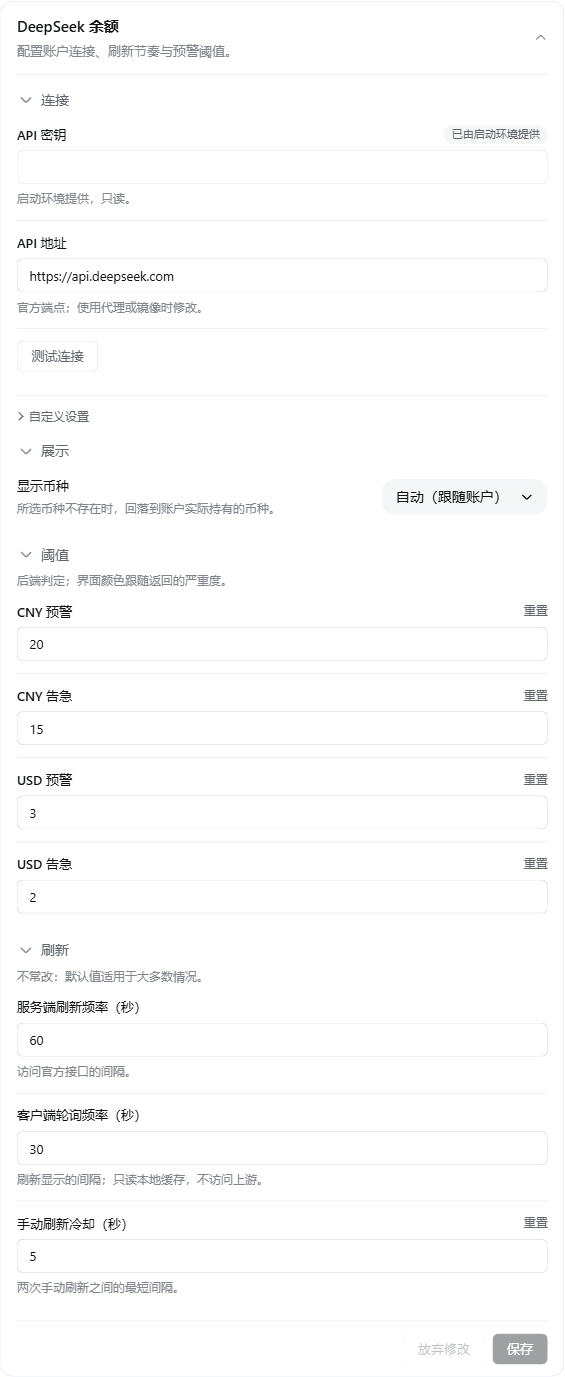
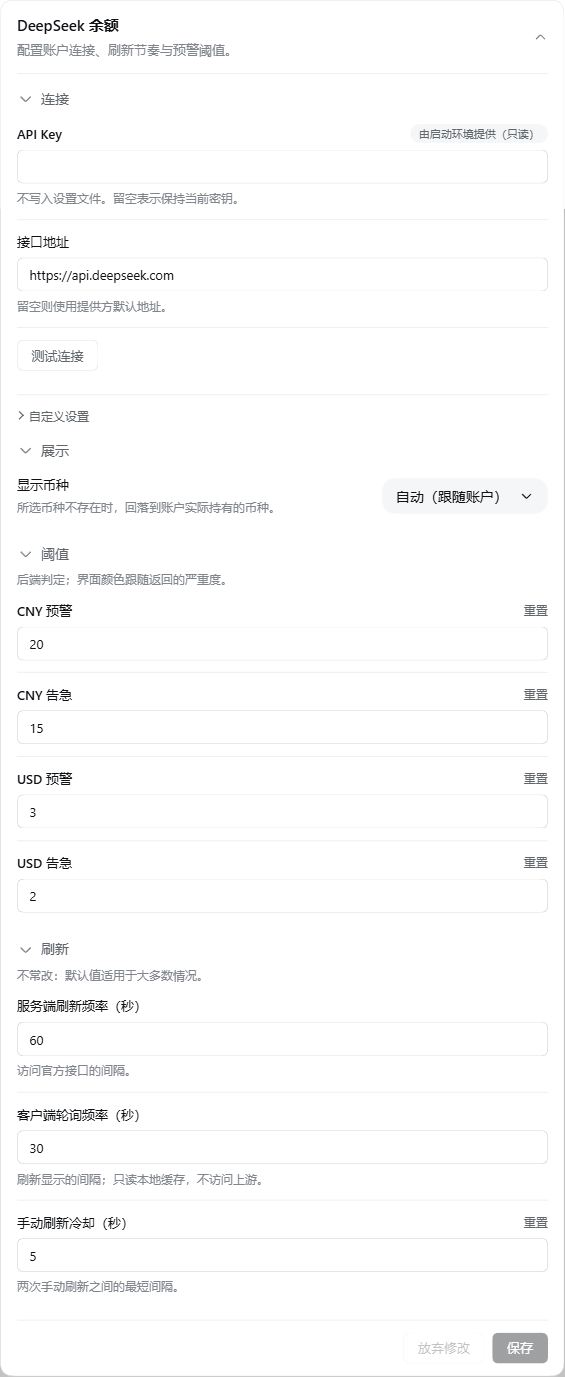
凭据行文案逐字对齐官方「网页搜索」卡片，只读框改常态空框
改了什么
- locales.ts：标签、说明与徽标改成官方原文（源：packages/client/ui-settings-plugins/src/client/locales.ts 的
  webSearchApiKey / webSearchBaseUrl / webSearchApiKeyHint / webSearchBaseUrlHint / webSearchApiKeySet / webSearchApiKeyUnset，
  以及 ui-settings-models 的 keyEnvLocked）——「API Key」（原「API 密钥」）、「接口地址」（原「API 地址」）、
  「留空则使用提供方默认地址。」（原「官方端点；使用代理或镜像时修改。」）、「已配置密钥。」、「未配置密钥。」、
  「由启动环境提供（只读）」（原「已由启动环境提供」）、「不写入设置文件。留空表示保持当前密钥。」；英文同源。
- 说明行收敛成一句与状态无关的常量（官方 webSearchApiKeyHint 就是常量），状态只由徽章交代：
  删掉 CREDENTIAL_HINT 四档映射与随之作废的三个词条。
- fields.tsx 的 ReadOnlyControl：只给 readOnly、不再给 disabled —— 官方那张卡里配好的密钥就是一个常态空框，
  置灰只属于「整份设置不可写」。框仍**不允许输入**（凭据继承官方模型页那一份），但不再降透明度。
- 同步 docs/ARCHITECTURE.md、src/client/settings/{AGENTS,README}.md、assets/AGENTS.md 与两份门面里的徽标措辞。

为什么
- 维护者指定照 DSH 的 Web search 模块抄，文案可逐字相同；并明确「API Key 不允许输入，因为其继承官方的」。
- 官方那套词在 settings.models / settings.plugins 命名空间下，别的插件拿不到，只能抄进本地词典。

怎么验证
- 真机读 DOM：凭据输入框 disabled=false、readOnly=true、opacity=1；徽标与说明行文字与官方源逐字一致。
- 两张卡片图重拍（中 565×1377 / 英 565×1395）：四组展开、底部「放弃 / 保存」在内、凭据框空的且不置灰。
- npm run typecheck 三段 0；npm test 28 files / 309 passed；check-links 80 files / 363 links 0 错；check-line-endings 0 不一致。

怎么回滚
- git revert 本提交：文案回到旧措辞，两张图回到上一版（git 历史里）。

diff --git a/src/client/locales.ts b/src/client/locales.ts
@@ -39,9 +39,9 @@ export const zh = {
   'settings.group.refresh': '刷新',
   'settings.group.display': '展示',
   'settings.group.thresholds': '阈值',
-  'settings.field.apiKey': 'API 密钥',
+  'settings.field.apiKey': 'API Key',
   'settings.field.apiKeyRef': 'API 密钥引用名',
-  'settings.field.baseUrl': 'API 地址',
+  'settings.field.baseUrl': '接口地址',
   'settings.field.serverRefreshSeconds': '服务端刷新频率（秒）',
   'settings.field.clientPollSeconds': '客户端轮询频率（秒）',
   'settings.field.manualRefreshCooldownSeconds': '手动刷新冷却（秒）',
@@ -52,7 +52,7 @@ export const zh = {
   'settings.field.usdCritical': 'USD 告急',
   'settings.hint.apiKey': '留空则改用引用名从凭据存储读取。',
   'settings.hint.apiKeyRef': '凭据存储里的条目名；非空时优先于 API Key。',
-  'settings.hint.baseUrl': '官方端点；使用代理或镜像时修改。',
+  'settings.hint.baseUrl': '留空则使用提供方默认地址。',
   'settings.hint.displayCurrency': '所选币种不存在时，回落到账户实际持有的币种。',
   'settings.hint.number': '请填数字；留空表示使用默认值。',
   'settings.hint.threshold': '后端判定；界面颜色跟随返回的严重度。',
@@ -61,14 +61,15 @@ export const zh = {
   'settings.hint.clientPollSeconds': '刷新显示的间隔；只读本地缓存，不访问上游。',
   'settings.hint.manualRefreshCooldownSeconds': '两次手动刷新之间的最短间隔。',
   'settings.currency.auto': '自动（跟随账户）',
-  // 凭据只读时的**状态徽章**文案。此前这里放的是输入框占位符，逐字抄官方 settings.models
-  // 的 keyEnvLocked；现在输入框留空、状态走标签行右侧的徽章，措辞随之改短。
-  'settings.credential.envLocked': '已由启动环境提供',
-  // 只读凭据行下方的说明，按状态四选一。其中「已配置」那条逐字用官方 webSearchApiKeyHint。
-  'settings.hint.credential.env': '启动环境提供，只读。',
-  'settings.hint.credential.configured': '不写入设置文件。留空表示保持当前密钥。',
-  'settings.hint.credential.notConfigured': '尚未配置。',
-  'settings.hint.credential.overridden': '使用自定义设置里的值，忽略继承。',
+  // 凭据行的**状态徽章**：三条逐字用官方措辞 —— 「已配置 / 未配置密钥」取自
+  // ui-settings-plugins 的 webSearchApiKeySet / webSearchApiKeyUnset（去掉搜索相关的后半句），
+  // 「由启动环境提供（只读）」取自 ui-settings-models 的 keyEnvLocked。
+  'settings.credential.envLocked': '由启动环境提供（只读）',
+  'settings.credential.configured': '已配置密钥。',
+  'settings.credential.notConfigured': '未配置密钥。',
+  // 凭据行下方的说明。官方 webSearchApiKeyHint 是一句与状态无关的常量说明，这里照做：
+  // 状态由徽章交代，说明只讲字段契约。
+  'settings.hint.credential': '不写入设置文件。留空表示保持当前密钥。',
   'settings.group.customized': '自定义设置',
   'settings.test': '测试连接',
   'settings.testing': '测试中…',
@@ -139,7 +140,7 @@ export const en: Record<LocaleKey, string> = {
   'settings.group.thresholds': 'Thresholds',
   'settings.field.apiKey': 'API key',
   'settings.field.apiKeyRef': 'API key reference',
-  'settings.field.baseUrl': 'Base URL',
+  'settings.field.baseUrl': 'Endpoint',
   'settings.field.serverRefreshSeconds': 'Server refresh (seconds)',
   'settings.field.clientPollSeconds': 'Client poll (seconds)',
   'settings.field.manualRefreshCooldownSeconds': 'Manual refresh cooldown (seconds)',
@@ -150,7 +151,7 @@ export const en: Record<LocaleKey, string> = {
   'settings.field.usdCritical': 'USD critical',
   'settings.hint.apiKey': 'Leave empty to resolve from the credential reference instead.',
   'settings.hint.apiKeyRef': 'Credential store entry name; takes precedence over the API key.',
-  'settings.hint.baseUrl': 'Official endpoint; change it for a proxy or mirror.',
+  'settings.hint.baseUrl': 'Leave blank to use the provider default.',
   'settings.hint.displayCurrency': 'Falls back to a currency the account actually holds.',
   'settings.hint.number': 'Enter a number; leave empty to use the default.',
   'settings.hint.threshold': 'Decided on the server; the UI colour follows the returned severity.',
@@ -159,11 +160,10 @@ export const en: Record<LocaleKey, string> = {
   'settings.hint.clientPollSeconds': 'How often the display refreshes; local cache only.',
   'settings.hint.manualRefreshCooldownSeconds': 'Minimum gap between two manual refreshes.',
   'settings.currency.auto': 'Automatic (follow account)',
-  'settings.credential.envLocked': 'Provided by launch environment',
-  'settings.hint.credential.env': 'Provided by the launch environment; read-only.',
-  'settings.hint.credential.configured': 'Never written to the settings file. Leave empty to keep the current key.',
-  'settings.hint.credential.notConfigured': 'Not configured yet.',
-  'settings.hint.credential.overridden': 'Uses the value in Customised settings; the inherited one is ignored.',
+  'settings.credential.envLocked': 'Provided by the launch environment (read-only)',
+  'settings.credential.configured': 'A key is configured.',
+  'settings.credential.notConfigured': 'No key is configured.',
+  'settings.hint.credential': 'Stored outside the settings file. Leave blank to keep the current key.',
   'settings.group.customized': 'Customized settings',
   'settings.test': 'Test connection',
   'settings.testing': 'Testing…',

diff --git a/src/client/settings/fields.tsx b/src/client/settings/fields.tsx
@@ -185,12 +185,12 @@ export function TextControl(props: TextControlProps) {
 /**
  * 只读输入：字段照常渲染，但不可编辑，**框内不写任何文字**。
  *
- * 不从「隐藏字段」也不从「换一块只读文本」走：仍是 `disabled` 的真输入框，
- * 与官方凭据字段同一形态。`readOnly` 与 `disabled` 同时给 ——
- * 前者挡住程序化写入，后者给出官方的视觉与可访问语义。
+ * 不从「隐藏字段」也不从「换一块只读文本」走：仍是真输入框，与官方凭据字段同一形态。
+ * **只给 `readOnly`，不给 `disabled`** —— 官方「网页搜索」卡片里配好的密钥就是一个常态空框
+ * （不降透明度），置灰只属于整份设置不可写的那种情况。
+ * 只读的因由由标签行右侧的状态徽章与它下方的说明行承担，那两处的措辞来自词典。
  *
  * **为什么没有 placeholder**：灰字写在框里读起来像「这里该填但没填」。
- * 只读的因由改由标签行右侧的状态徽章与它下方的说明行承担，那两处的措辞来自词典。
  */
 export interface ReadOnlyControlProps {
   id: string
@@ -209,7 +209,6 @@ export function ReadOnlyControl(props: ReadOnlyControlProps) {
       type="text"
       value=""
       readOnly
-      disabled
     />
   )
 }

diff --git a/src/client/settings/BalanceSettingsCard.tsx b/src/client/settings/BalanceSettingsCard.tsx
@@ -43,17 +43,9 @@ const DEFAULT_API_KEY_REF = 'DEEPSEEK_API_KEY'
  */
 const CREDENTIAL_BADGE: Readonly<Record<CredentialView, LocaleKey>> = {
   env: 'settings.credential.envLocked',
-  configured: 'settings.configured',
-  notConfigured: 'settings.notConfigured',
+  configured: 'settings.credential.configured',
+  notConfigured: 'settings.credential.notConfigured',
   overridden: 'settings.overridden',
-}
-
-/** 徽章下方那一行说明，逐档对应。 */
-const CREDENTIAL_HINT: Readonly<Record<CredentialView, LocaleKey>> = {
-  env: 'settings.hint.credential.env',
-  configured: 'settings.hint.credential.configured',
-  notConfigured: 'settings.hint.credential.notConfigured',
-  overridden: 'settings.hint.credential.overridden',
 }
 
 /** 四个配置分组的键。 */
@@ -328,7 +320,7 @@ export function BalanceSettingsCard({ t, scope }: BalanceSettingsCardProps) {
                 pendingLabel={t('settings.unsaved')}
                 resetLabel={t('settings.reset')}
                 invalid={false}
-                hint={t(CREDENTIAL_HINT[credentialView])}
+                hint={t('settings.hint.credential')}
                 disabled
                 onReset={() => {}}
               >

diff --git a/src/client/settings/AGENTS.md b/src/client/settings/AGENTS.md
@@ -17,9 +17,9 @@ settings/ 特有约束：
 - 纵向间距只有两个所有者：`.group` 的顶部 12px 与 `.groupLast` 的尾部 12px（[fields.module.css](fields.module.css)）；新加元素不许在旁边叠 margin。
 - 分组折叠头一律用原语 `DisclosureRow`，不自己画（[fields.tsx](fields.tsx) 的 `FieldGroup`）。
   - **例外**：连接组里的二级「自定义设置」用原生 `<details>`（[fields.tsx](fields.tsx) 的 `DetailsGroup`），因为官方 `ProviderEditor` 那一处就是这么做的；本插件照搬官方形态优先于自定规则。
-- 凭据字段的只读形态照搬官方：`disabled` + 60% 透明度，**不隐藏字段、不另做只读块、框内不写占位符**。
-  状态走标签行右侧的徽章，因由走它下方那行说明；两处的键分别是 `settings.credential.*` 与 `settings.hint.credential.*`（[../locales.ts](../locales.ts)）。
-  官方那两条同义措辞属于 `settings.models` 命名空间、别的插件拿不到，所以文案自备。
+- 凭据字段的只读形态照官方「网页搜索」卡片：**常态空框（只 `readOnly`，不 `disabled`、不降透明度）**，**不隐藏字段、不另做只读块、框内不写占位符**。
+  状态走标签行右侧的徽章（`settings.credential.*`），说明走它下方那行（`settings.hint.credential`，一句与状态无关的常量）。
+  **措辞逐字抄官方**：徽章三条取自 `ui-settings-plugins` 的 `webSearchApiKeySet` / `webSearchApiKeyUnset` / `ui-settings-models` 的 `keyEnvLocked`，说明取自 `webSearchApiKeyHint` —— 官方那套词在 `settings.models` / `settings.plugins` 命名空间、别的插件拿不到，所以抄进 [../locales.ts](../locales.ts)。
 - 只读凭据行的四档只有一个判据：[use-credential-state.ts](use-credential-state.ts) 的 `credentialViewOf`（覆盖 > 环境 > 配没配）。**不许在组件里另写一份分支。**
 - **读宿主新增字段必须先过形状守卫**：客户端半边由 HMR 立刻换新，宿主半边要重启才换。见 [../data.ts](../data.ts) 的 `readCredential` 与 [use-credential-state.ts](use-credential-state.ts)。
 - 错误文本用 `var(--dsw-alias-state-error-primary)`；官方 `--dsw-alias-label-error` 从未定义，照抄会静默失效。

diff --git a/assets/AGENTS.md b/assets/AGENTS.md
@@ -70,9 +70,12 @@
   解除裁剪只发生在自己那个标签页里，拍完关掉即可。
 - **切语言会让当前标签页重载**，切完要重新走一遍「设置 → 插件 → 插件配置」并重新展开四组。
 - 卡片默认四组全收起。**必须展开再拍**，否则图里只有四个折叠头，等于没拍。
-- 凭据行显示哪一档取决于宿主与用户覆盖：`writable: false` 时徽标是「已由启动环境提供」，
-  否则是「已配置 / 未配置」，用户在折叠里存过值则是「已覆盖」。都合法，图与当时的状态一致即可。
-- 凭据输入框**应当是空的**：只读行不再写占位符。图里若看到框内有灰字，说明截的是旧产物。
+- 凭据行显示哪一档取决于宿主与用户覆盖：`writable: false` 时徽标是「由启动环境提供（只读）」，
+  否则是「已配置密钥。/ 未配置密钥。」，用户在折叠里存过值则是「已覆盖」。都合法，图与当时的状态一致即可。
+- 凭据输入框**应当是空的、且不置灰**（常态空框）：只读行不写占位符、不降透明度。图里若看到框内有灰字或整格发灰，说明截的是旧产物。
+- **截图落盘一律给绝对路径**：tabbit 的 nodejs 运行器里 `process.env.TEMP` 是 `undefined`，相对路径会写进浏览器安装目录，事后很难找回来。
+- **切完语言要重新走一遍「设置 → 插件 → 插件配置」并重新展开卡片**：页面重载会把卡片收回折叠态；卡片头是 `button[aria-expanded]`，分组头是 `div[role="button"][aria-expanded]`，两个都点齐才拍得到全卡。
+- **截图前确认整张卡落在视口内**：`boundingBox()` 的 `top + height` 必须小于窗口高度，否则下半截是白的（元素框量得到、画不出来）。不够高就迭代加高 viewport。
 - **`page.screenshot()` 会被浏览器运行时接管**：传了 `path` 也不写你指定的位置，而是落到它的 artifacts 目录，
   并在返回值里给你真实路径。**`locator.screenshot({ path })` 是原生 Playwright，照写不误** ——
   所以设置卡片那张直接落盘，左边栏那张（要裁一块区域，只能用 `page.screenshot`）得从 artifacts 里拷回来。

diff --git a/docs/ARCHITECTURE.md b/docs/ARCHITECTURE.md
@@ -39,9 +39,9 @@
 - 依赖锚点跟随宿主运行的 alpha 线。
 - 设置卡片分四组、各自可折叠，顺序是 连接 → 展示 → 阈值 → 刷新（按使用频率排）；宿主 `Config` 的字段顺序是 连接 → 刷新 → 展示 → 阈值（按任务书排）。**两者有意不同，不要改成一样。**
 - 四组默认全收起，卡片一打开只占四行折叠头；组内有非法草稿时该组强制展开 —— 非法会禁用保存，收起的组会让 footer 的「请检查标红的字段」指向看不见的地方。
-- 凭据字段（`apiKey` / `apiKeyRef`）在标签行右侧带状态胶囊：已由启动环境提供 / 已覆盖 / 已配置 / 未配置。
+- 凭据行在标签行右侧带状态胶囊：由启动环境提供（只读）/ 已配置密钥。/ 未配置密钥。/ 已覆盖 —— 前三条与说明行都是官方 `ui-settings-plugins` 的原文。
 - 「显示币种」是整行左右布局（左文字 + 右选择器胶囊），不是上下结构。
-- **连接组照搬官方「模型」卡片的两段式**：外面是只读的凭据状态（disabled 输入框 + 标签行右侧的状态徽章 + 60% 透明度）
+- **连接组照搬官方「模型」卡片的两段式**：外面是只读的凭据状态（常态空输入框 + 标签行右侧的状态徽章 + 它下方那行说明）
   与可编辑的 Base URL；`apiKey` / `apiKeyRef` 收进二级「自定义设置」折叠，默认收起。
   **框内不写占位符** —— 灰字写在框里读起来像「这里该填但没填」，状态改由徽章与它下方那行说明承担。
   官方那两条同义措辞属于 `settings.models` 命名空间、别的插件拿不到，所以文案自备。

diff --git a/src/client/settings/README.md b/src/client/settings/README.md
@@ -34,7 +34,7 @@
 - 职责：字段行的容器与全部控件，以及分组的折叠头。
 - 关键导出：`FieldGroup`、`FieldFrame`、`FieldBadges`、`TextControl`、`ReadOnlyControl`、`SecretControl`、`SelectorControl`、`ActionRow`、`DetailsGroup`，以及类型 `FieldStatus` 与 `SelectorOption`。
 - `FieldGroup` 的折叠头用原语 `DisclosureRow`，不自己画；展开体由原语在 open 时条件渲染，无动画。
-- `ReadOnlyControl` 是只读输入：字段照常渲染、`disabled`、**框内不写任何文字**，形态照搬官方 `ProviderEditor` 的凭据字段。只读的因由改由标签行右侧的状态徽章与它下方的说明行承担，两处文案都来自词典。
+- `ReadOnlyControl` 是只读输入：字段照常渲染、**只 `readOnly` 不 `disabled`**（常态空框，不降透明度），**框内不写任何文字**，形态照官方「网页搜索」卡片的凭据字段。只读的因由由标签行右侧的状态徽章与它下方的说明行承担，两处文案都来自词典。
 - `DetailsGroup` 是**二级折叠**，用原生 `<details>`/`<summary>` 而不是 `DisclosureRow` —— 官方那一处也是原生 details 配一个 `::before` 折角。它是受控但跟手的：`open` 由 state 持有，用户拨动时从 DOM 读回真实状态，卡片重渲染不会把它弹回去。
 - 类名拼接统一用官方 `clsx`（平台样式规则要求），不自备工具函数。
 - 被谁依赖：`BalanceSettingsCard.tsx`。

diff --git a/README_en.md b/README_en.md
@@ -59,7 +59,7 @@ The division of labour is fixed: **the ring answers "roughly how much is left", 
 - Multiple currencies: the account decides which currency is shown; when the one chosen in settings is absent, the popover explains and offers a one-click switch.
 - The settings card has four collapsible groups, all collapsed by default; a group holding a bad value opens itself.
 - The credential is inherited from the official model settings by default, so there is nothing to re-enter; where it comes from is on a badge
-  (provided by launch environment / configured / not configured / overridden), and a read-only field explains itself instead of offering an edit.
+  (provided by the launch environment (read-only) / a key is configured / no key is configured / overridden), and a read-only field explains itself instead of offering an edit.
 - Colour carries state only (normal / low / critical), never an amount; see "[Reading the ring](#reading-the-ring)".
 
 ## Installation

diff --git a/README.md b/README.md
@@ -58,7 +58,7 @@
 - 浮层给出总额、赠送 / 充值拆分、数据是多久之前的，以及一个带冷却的手动刷新。
 - 多币种：显示哪个币种由账户决定；设置里选的币种账户里没有时，浮层会说明并给一键改用。
 - 设置卡片分四组、各自可折叠，默认全收起；组里有填错的项时，那一组会自己展开。
-- 凭据默认继承官方模型页配好的那一份，不必重填；来源写在徽标上（已由启动环境提供 / 已配置 / 未配置 / 已覆盖），
+- 凭据默认继承官方模型页配好的那一份，不必重填；来源写在徽标上（由启动环境提供（只读）/ 已配置密钥。/ 未配置密钥。/ 已覆盖），
   只读时不给编辑，并说明原因。
 - 颜色只表达状态（正常 / 偏低 / 告急），与金额大小无关；读法与理由见「[圆环怎么读](#圆环怎么读)」。
 
